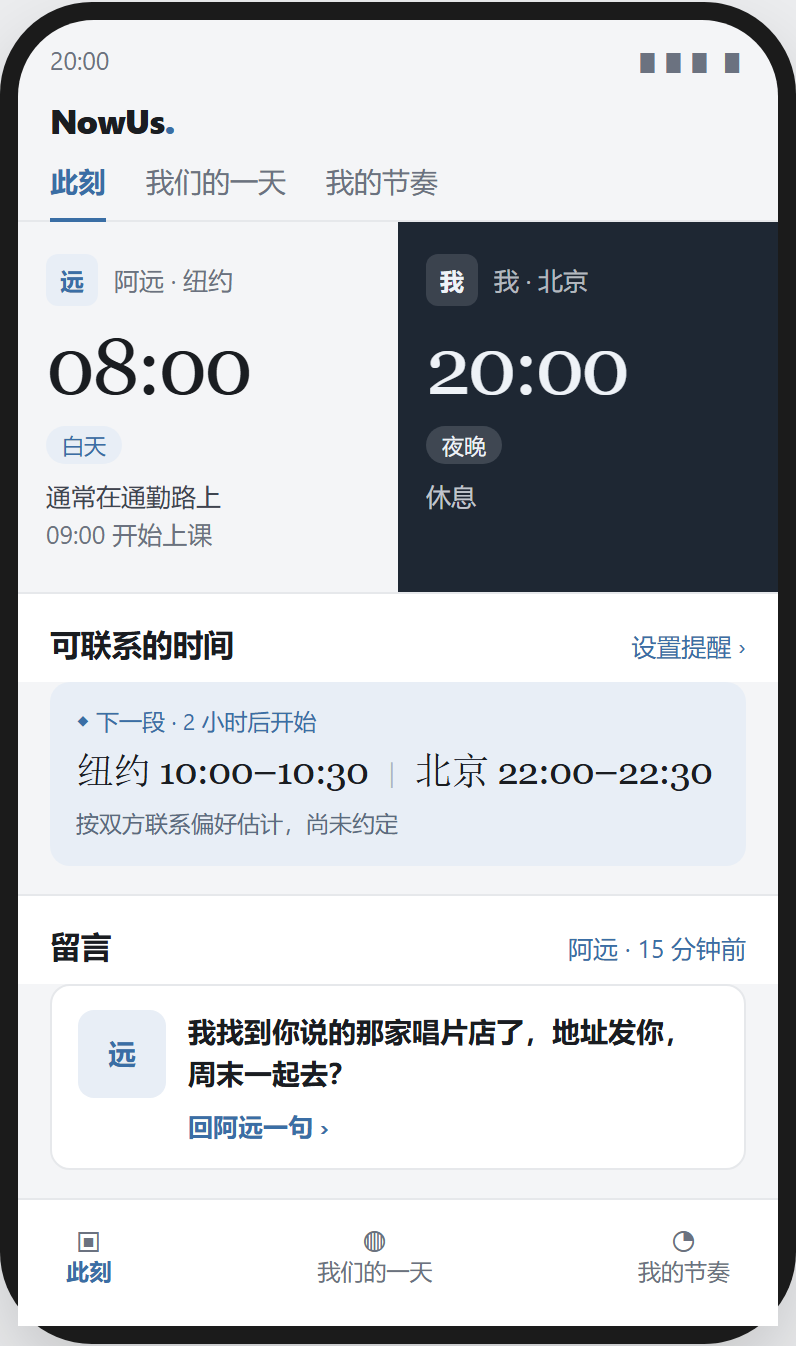
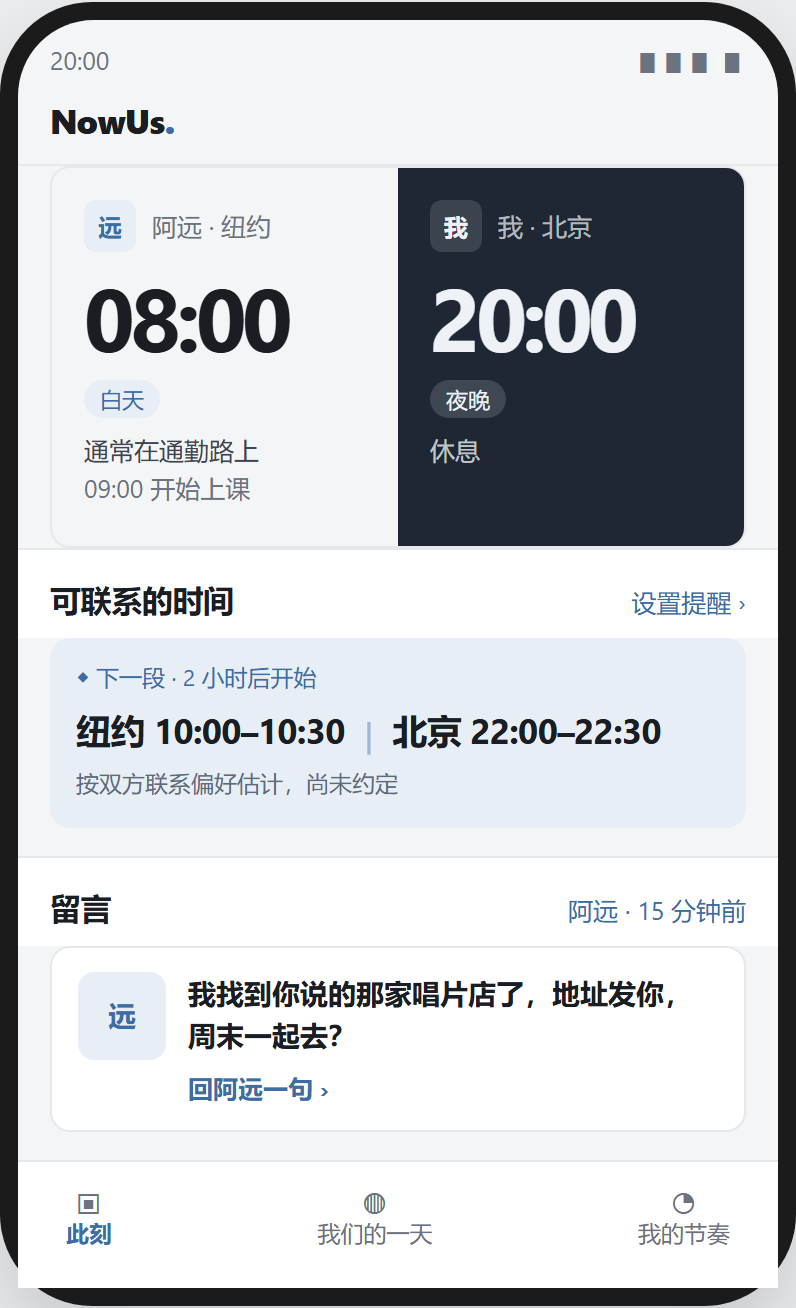
design: make direction 3 cohere - one type family, one nav, one container
The user said the merged version felt uncoordinated. Three causes, all of them
introduced by me when combining direction 3 with the reference image's language:

1. Two type families. The numerals were Georgia serif while everything else was
   sans, but the reference is sans throughout, with bold tight-tracked figures.
   The clocks and the window times now use the same sans at weight 700 with
   negative tracking.
2. Navigation appeared twice - a top tab row (borrowed from the reference's
   in-page tabs) and the bottom tab bar, carrying the same three destinations.
   The top row is removed.
3. Two container systems. The two columns ran full-bleed while the window panel
   and the note card were inset by 16px, so the screen mixed two layout logics
   and the left edges did not line up. The columns are now inset, rounded and
   bordered like the other two blocks.

Measured after the pass: the columns, the window panel and the note card all
start at x=49, the top tab row is gone, one font family is in use, and there is
no horizontal overflow and no clipping.

diff --git a/design-history/2026-10-03-a/option3-with-reference.html b/design-history/2026-10-03-a/option3-with-reference.html
@@ -21,21 +21,21 @@
   .phone{width:398px;padding:9px;background:#1B1B1B;border-radius:46px;box-shadow:0 18px 40px rgba(0,0,0,.16);flex:0 0 auto}
   .screen{background:var(--page);border-radius:38px;padding:12px 0 0}
   .status{display:flex;justify-content:space-between;font-size:12.5px;color:var(--muted);padding:0 16px 10px}
-  .brand{font-size:17px;font-weight:800;letter-spacing:-.5px;padding:0 16px 10px}
+  .brand{font-size:17px;font-weight:800;letter-spacing:-.5px;padding:0 16px 11px;border-bottom:1px solid var(--line)}
   .brand i{font-style:normal;color:var(--blue)}
   /* 顶部下划线标签（取自参考图） */
   .tabs{display:flex;gap:20px;padding:0 16px;border-bottom:1px solid var(--line)}
   .tabs span{font-size:14px;color:var(--muted);padding-bottom:9px}
   .tabs b{font-size:14px;font-weight:700;color:var(--blue);padding-bottom:9px;border-bottom:2px solid var(--blue);margin-bottom:-1px}
   /* 对开两栏 */
-  .spread{display:flex}
-  .col{flex:1;min-width:0;padding:16px 14px 18px}
+  .spread{display:flex;margin:0 16px;border-radius:10px;overflow:hidden;border:1px solid var(--line)}
+  .col{flex:1;min-width:0;padding:16px 16px 18px}
   .col.night{background:var(--night);color:var(--nightink)}
   .who{display:flex;align-items:center;gap:8px;font-size:12.5px;color:var(--muted)}
   .col.night .who{color:rgba(238,242,247,.72)}
   .mono{width:26px;height:26px;border-radius:6px;background:var(--tint);color:var(--blue);display:flex;align-items:center;justify-content:center;font-size:12px;font-weight:700;flex:0 0 auto}
   .col.night .mono{background:rgba(238,242,247,.14);color:var(--nightink)}
-  .clock{font-family:var(--serif);font-size:40px;line-height:1;letter-spacing:-1.6px;margin:10px 0 7px}
+  .clock{font-family:var(--font);font-weight:700;font-size:44px;line-height:1;letter-spacing:-2.2px;margin:10px 0 7px}
   .st{font-size:12.5px;line-height:1.55;color:#3F4550}
   .col.night .st{color:rgba(238,242,247,.78)}
   .pill{display:inline-block;font-size:11px;padding:2px 8px;border-radius:999px;background:var(--tint);color:var(--blue);margin-bottom:7px}
@@ -47,7 +47,7 @@
   /* 浅蓝分组面板 */
   .panel{margin:0 16px 14px;background:var(--tint);border-radius:10px;padding:12px 13px}
   .panel .k{font-size:11.5px;color:var(--blue);display:flex;align-items:center;gap:6px}
-  .panel .v{font-family:var(--serif);font-size:19px;letter-spacing:-.4px;margin-top:7px;white-space:nowrap}
+  .panel .v{font-family:var(--font);font-weight:700;font-size:17.5px;letter-spacing:-.3px;margin-top:7px;white-space:nowrap}
   .panel .m{font-size:11.5px;color:#5A6B80;margin-top:6px;line-height:1.6}
   .seps{color:#A9B4C2;font-size:15px;vertical-align:middle}
   /* 留言行：缩略图 + 标题 + 灰副行（取自参考图） */
@@ -76,7 +76,6 @@
     <div class="phone"><div class="screen">
       <div class="status"><span>20:00</span><span>▮▮▮ ▮</span></div>
       <div class="brand">NowUs<i>.</i></div>
-      <div class="tabs"><b>此刻</b><span>我们的一天</span><span>我的节奏</span></div>
 
       <div class="spread">
         <div class="col">
